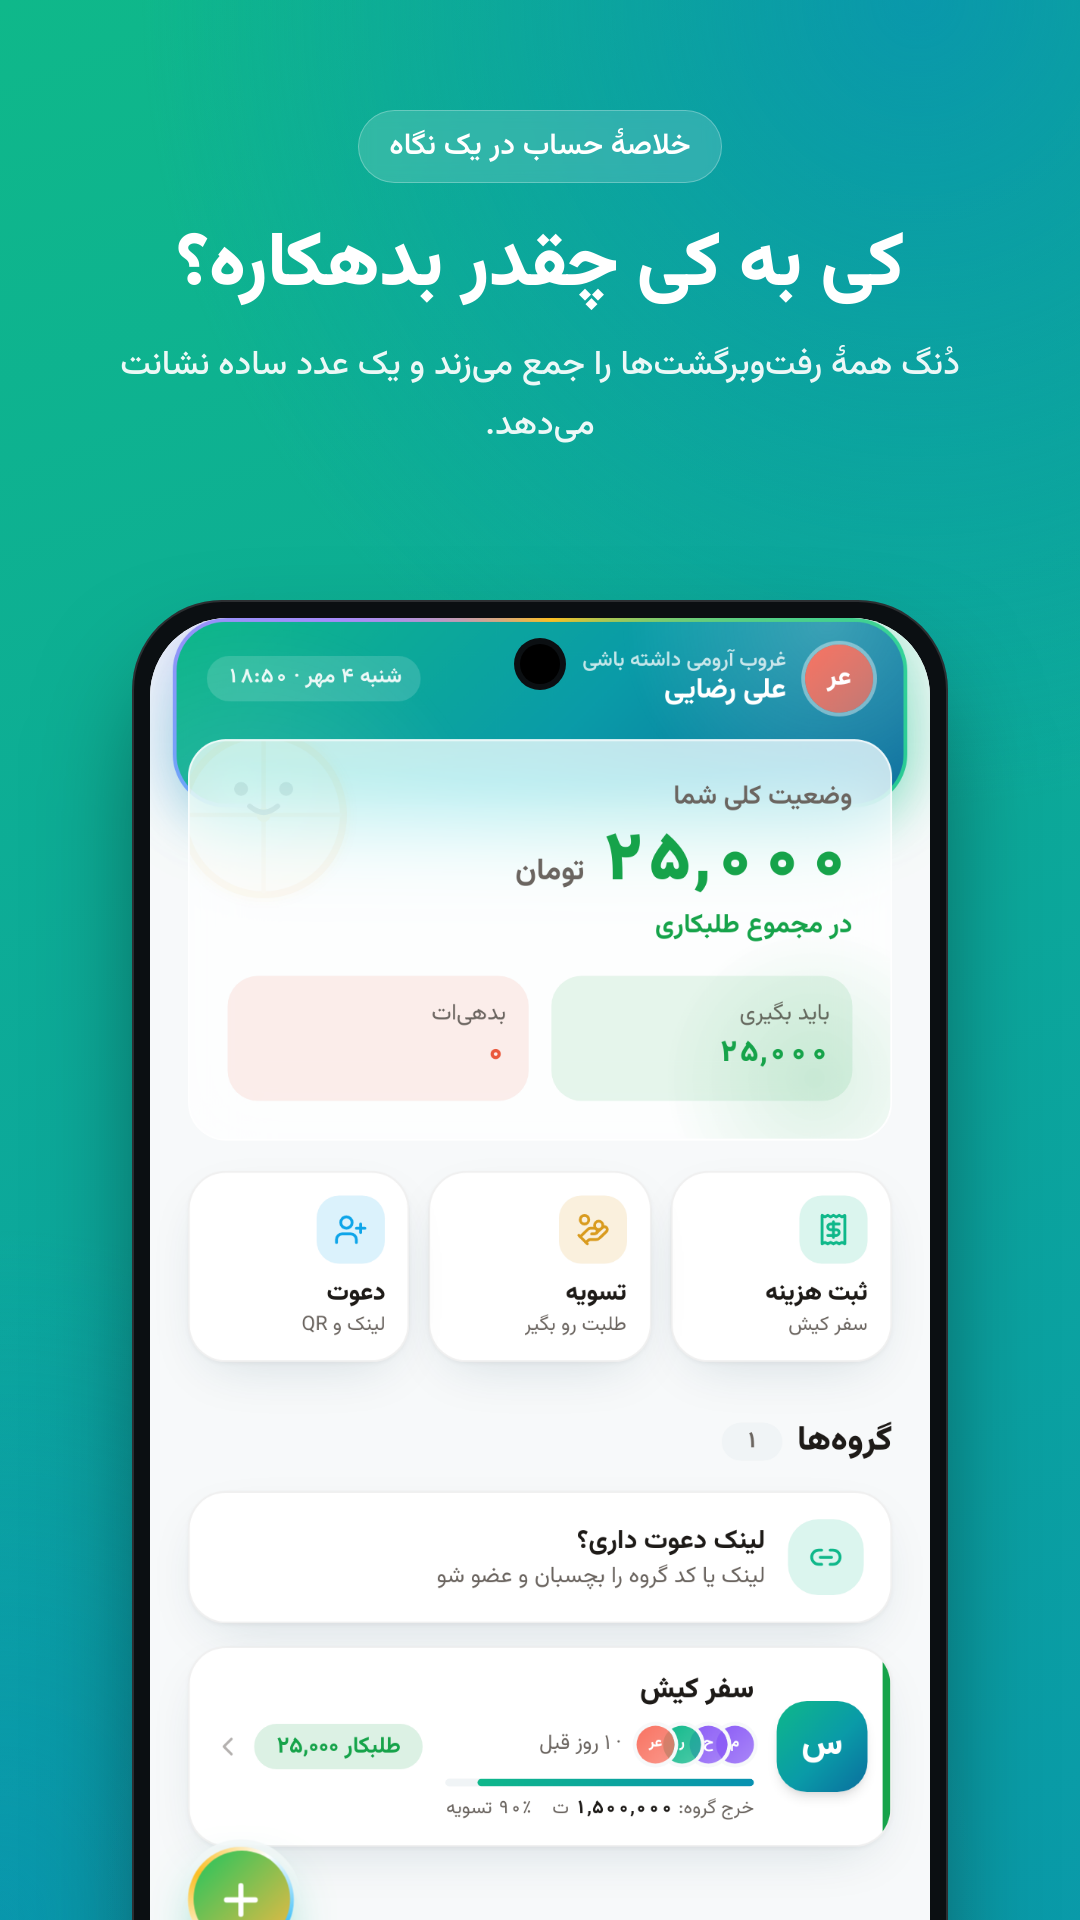
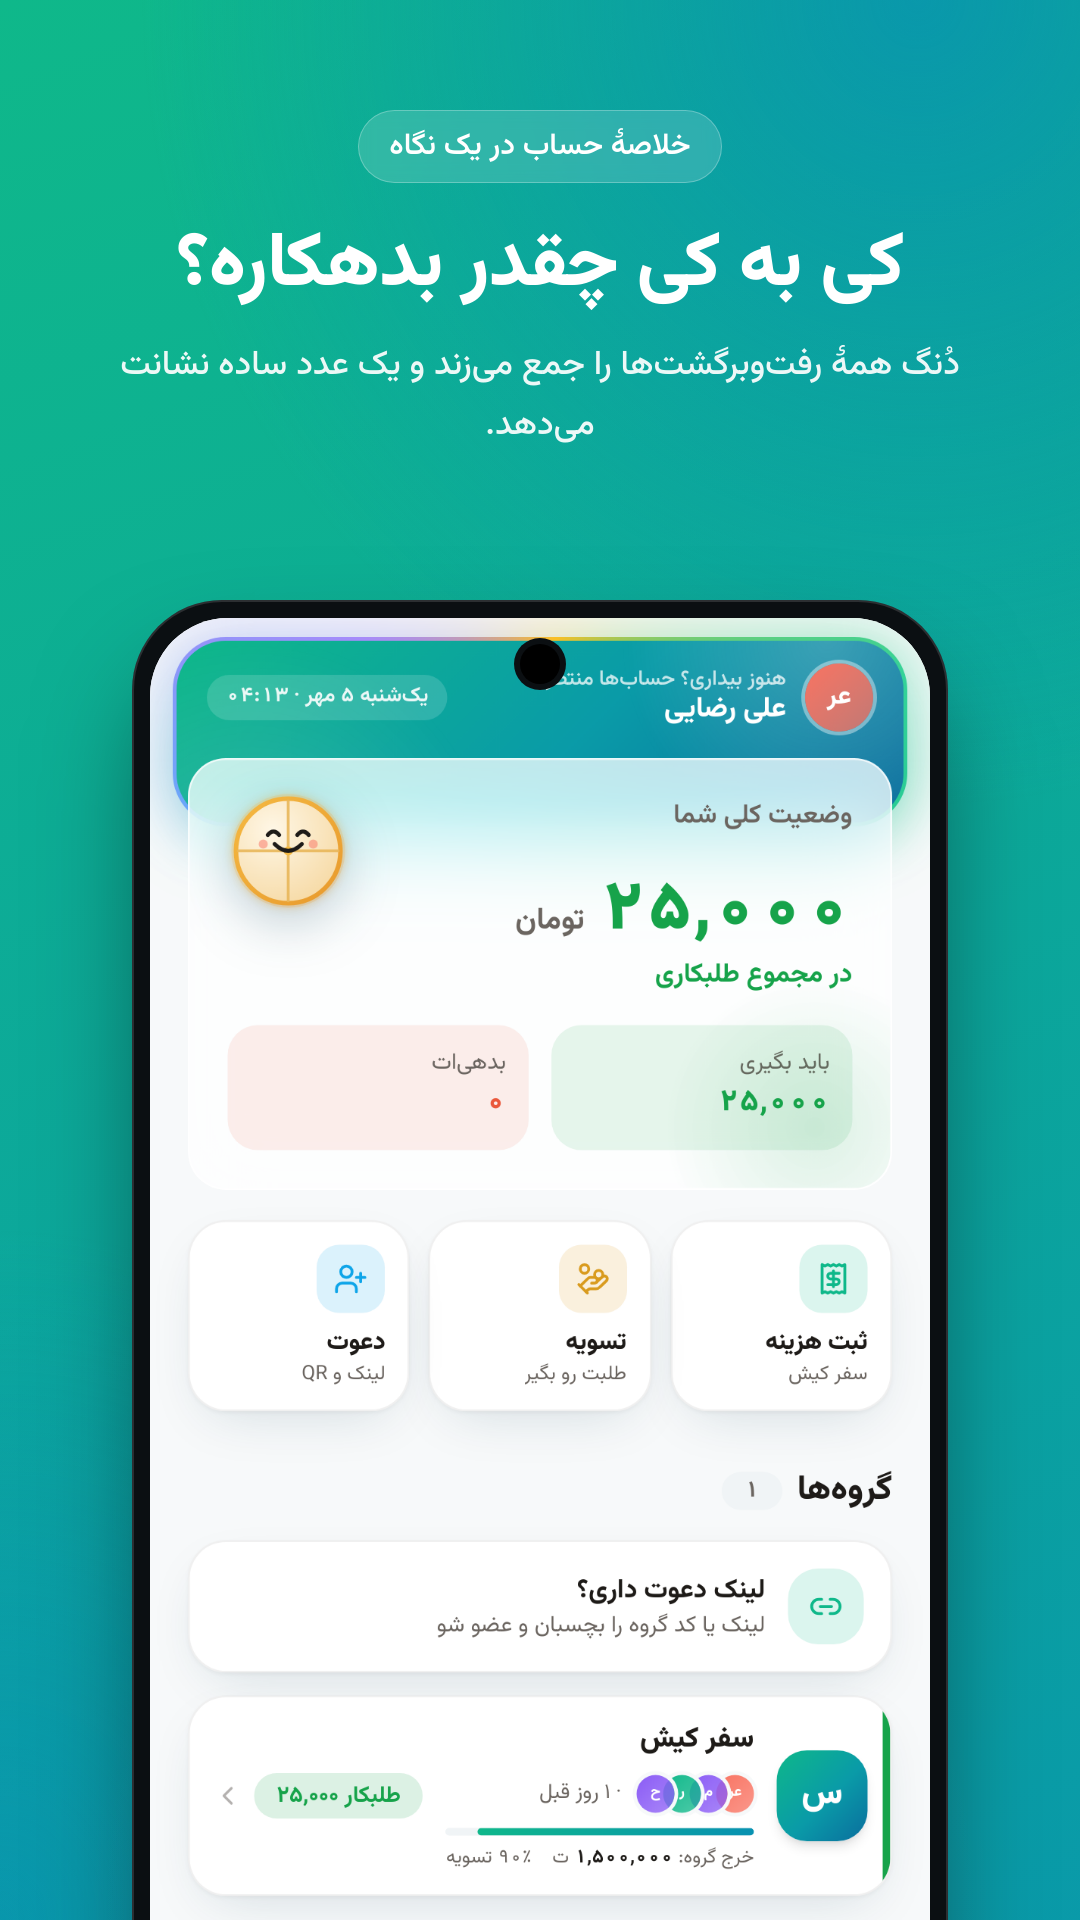
home: mascot moved to the front of the balance card (next to «وضعیت کلی شما»), mood follows your balance

diff --git a/apps/web/src/features/home/HomePage.tsx b/apps/web/src/features/home/HomePage.tsx
@@ -87,8 +87,11 @@ export function HomePage() {
 
       {/* Total balance glass card */}
       <motion.div data-tour="balance" initial={{ y: 20, opacity: 0 }} animate={{ y: 0, opacity: 1 }} className="mx-5 -mt-9 glass rounded-card p-5 relative overflow-hidden" style={{ background: 'rgb(var(--c-surface) / 0.75)' }}>
-        <p className="text-ink-2 text-sm font-semibold">وضعیت کلی شما</p>
-        <div className="mt-1 flex items-baseline gap-2">
+        <div className="flex items-start justify-between">
+          <p className="text-ink-2 text-sm font-semibold">وضعیت کلی شما</p>
+          <div className="-mt-2 -ml-1 shrink-0 drop-shadow-[0_8px_14px_rgba(14,59,82,0.25)]"><Mascot mood={total < 0 ? 'confused' : total > 0 ? 'happy' : 'idle'} size={72} /></div>
+        </div>
+        <div className="-mt-6 flex items-baseline gap-2">
           <AmountText value={Math.abs(total)} className={`text-4xl font-black ${total > 0 ? 'text-pos' : total < 0 ? 'text-neg' : 'text-ink'}`} suffix="" />
           <span className="text-ink-2 font-bold">تومان</span>
         </div>
@@ -99,7 +102,6 @@ export function HomePage() {
           <div className="rounded-2xl bg-pos/10 p-3"><p className="text-xs text-ink-2">باید بگیری</p><p className="num font-extrabold text-pos mt-0.5">{formatAmount(owed)}</p></div>
           <div className="rounded-2xl bg-neg/10 p-3"><p className="text-xs text-ink-2">بدهیات</p><p className="num font-extrabold text-neg mt-0.5">{formatAmount(owe)}</p></div>
         </div>
-        <div className="absolute -left-4 -top-4 opacity-[0.07] pointer-events-none"><Mascot mood="idle" size={110} /></div>
         <div className="absolute -right-10 -bottom-12 h-40 w-40 rounded-full pointer-events-none" style={{ background: `radial-gradient(circle, rgb(var(${total < 0 ? '--c-neg' : '--c-pos'}) / 0.14), transparent 70%)` }} />
       </motion.div>
 
